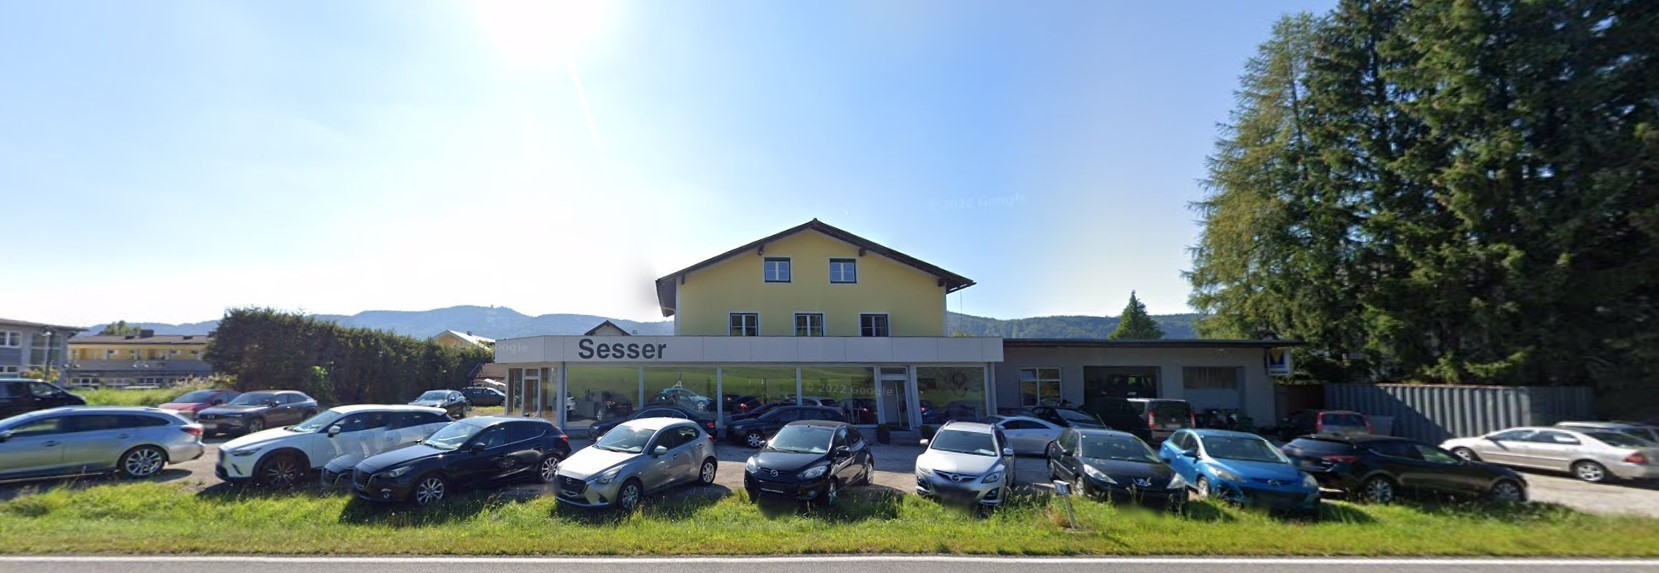
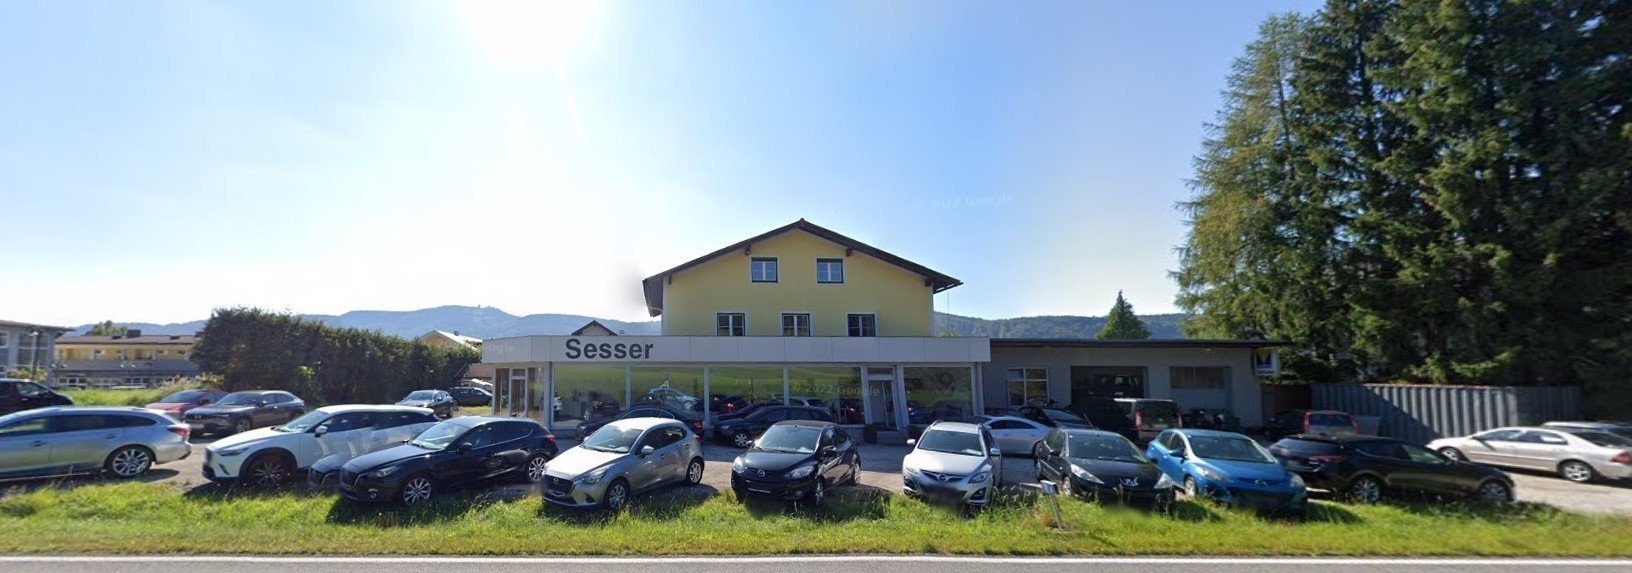
optimize background picture, fix mail link

diff --git a/index.html b/index.html
@@ -11,16 +11,15 @@
 		body {
 			background-image: url(img/mazda-sesser-google-streetview_cut.jpg);
 			background-repeat: no-repeat;
-			background-size: contain;
-			background-position: 0% -10%;
+			background-size: 816px;
+			background-position: 50% -50px;
 			background-color: #fff;
 			color: #444;
 			font-family: -apple-system, BlinkMacSystemFont, "Segoe UI", Roboto, Oxygen-Sans, Ubuntu, Cantarell, "Helvetica Neue", sans-serif;
-			margin: 3em auto;
-			padding: 1em 2em;
+			margin: 2em auto;
+			padding: 15em 2em 2em 2em;
 			max-width: 700px;
 			box-shadow: 0 1px 3px rgba(0,0,0,0.13);
-			padding-top: 14em;
 		}
 		p, dl {
 			font-size: 14px;
@@ -121,7 +120,7 @@
 		<meta property="knowsLanguage" content="DE,EN">
 		Telefon <a property="telephone" href="tel:+4362348206">+43 6234 8206</a><br>
 		Fax <a property="faxNumber" href="fax:+43623420068">+43 6234 20068</a><br>
-		E-Mail <a property="email" href="auto@sesser.at">auto@sesser.at</a><br>
+		E-Mail <a property="email" href="mailto:auto@sesser.at">auto@sesser.at</a><br>
 		Web <a property="url" href="https://auto.sesser.at">auto.sesser.at</a><br>
 	</p>
 
